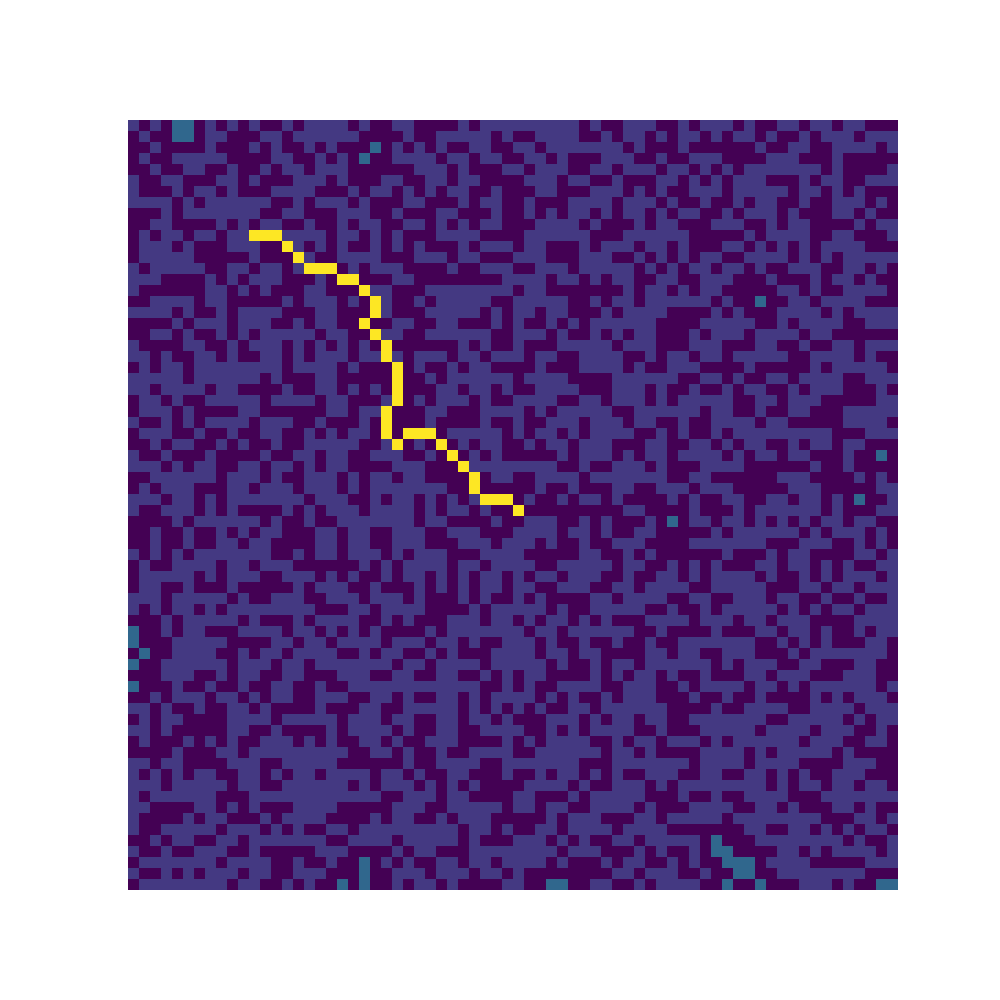
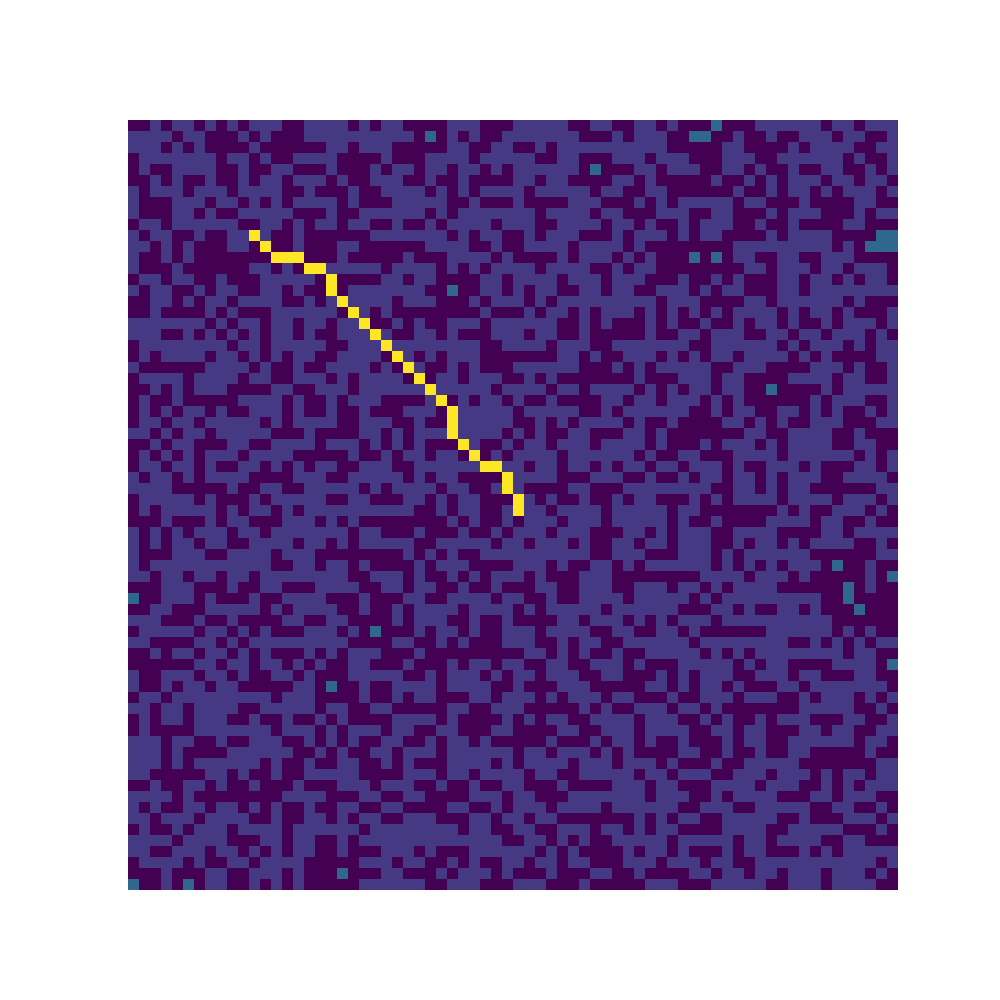
Melhorias

Changed region(s): [[0.124, 0.093, 0.899, 0.899]]

diff --git a/dijkstra_pathfinder.py b/dijkstra_pathfinder.py
@@ -2,6 +2,9 @@ from matplotlib import pyplot as plt
 import random
 import math
 import heapq
+import logging
+
+from init_logger import init_logger
 
 INFINITY = float('inf')
 
@@ -15,6 +18,10 @@ size = 70
 
 _grid = []
 _plt_grid = [] # matrix de visualização
+
+logging.basicConfig(level= logging.DEBUG)
+
+logger = init_logger(__name__, testing_mode=False)
 
 class Node:
 
@@ -90,16 +97,20 @@ def build_graph_path(start, end):
     path = []
     current = end
     path.append(end)
-    if current is None:
-        print("Nenhum caminho possível")
-        return
-    else:
+    
+    try:
         while (current.x != start.x or current.y != start.y):
             path.append(current)
             current = current.previous
-        
+
         for u in path:
             u.grid_color = 30
+
+        logger.info("Matriz gerada com sucesso")
+
+    except (TypeError, AttributeError):
+            logger.warn("Nenhum caminho possível")
+
 
 def build_grid():
     populate_grid()
@@ -147,15 +158,17 @@ def set_end(x, y):
 
     return end
 
-build_grid()
 
-start = set_start(10,10)
-end = set_end(size-1, size-1)
+if __name__ == "__main__":
+    build_grid()
 
-dijkstra(start, end)
-build_visualization_grid()
+    start = set_start(0,0)
+    end = set_end(size-1, size-1)
 
-plt.figure(figsize =(10, 10))
-plt.axis('off')
-plt.imshow(_plt_grid)
-plt.savefig("pathfinder_3.png")
+    dijkstra(start, end)
+    build_visualization_grid()
+
+    plt.figure(figsize =(10, 10))
+    plt.axis('off')
+    plt.imshow(_plt_grid)
+    plt.savefig("pathfinder_5.png")

diff --git a/init_logger.py b/init_logger.py
@@ -1,0 +1,47 @@
+
+import logging
+import colorlog
+
+def init_logger(dunder_name, testing_mode) -> logging.Logger:
+    log_format = (
+        '%(funcName)s - '
+        '%(levelname)s - '
+        '%(message)s'
+    )
+    bold_seq = '\033[1m'
+    colorlog_format = (
+        f'{bold_seq} '
+        '%(log_color)s '
+        f'{log_format}'
+    )
+    colorlog.basicConfig(format=colorlog_format)
+    logger = logging.getLogger(dunder_name)
+
+    if testing_mode:
+        logger.setLevel(logging.DEBUG)
+    else:
+        logger.setLevel(logging.INFO)
+
+    # Output full log
+    fh = logging.FileHandler('app.log')
+    fh.setLevel(logging.DEBUG)
+    formatter = logging.Formatter(log_format)
+    fh.setFormatter(formatter)
+    logger.addHandler(fh)
+
+    # Output warning log
+    fh = logging.FileHandler('app.warning.log')
+    fh.setLevel(logging.WARNING)
+    formatter = logging.Formatter(log_format)
+    fh.setFormatter(formatter)
+    logger.addHandler(fh)
+
+    # Output error log
+    fh = logging.FileHandler('app.error.log')
+    fh.setLevel(logging.ERROR)
+    formatter = logging.Formatter(log_format)
+    fh.setFormatter(formatter)
+    logger.addHandler(fh)
+
+    return logger
+
